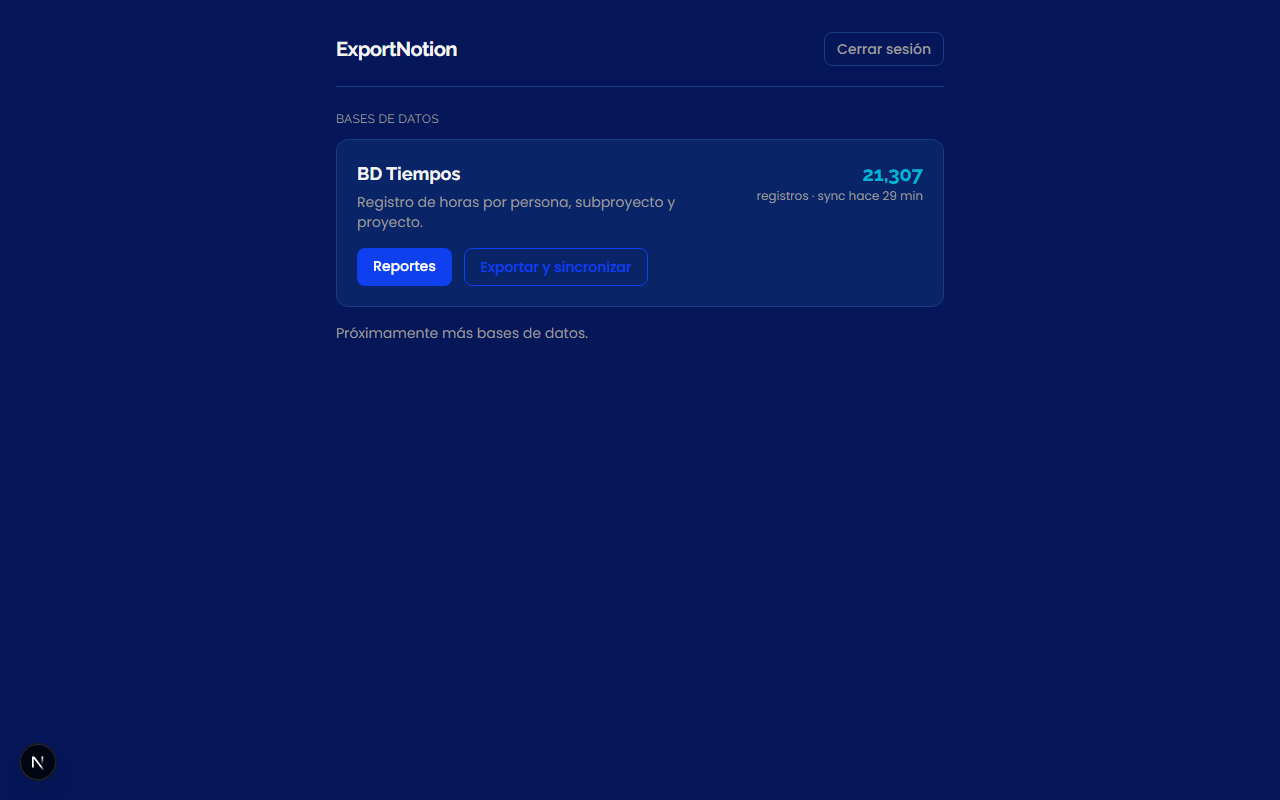
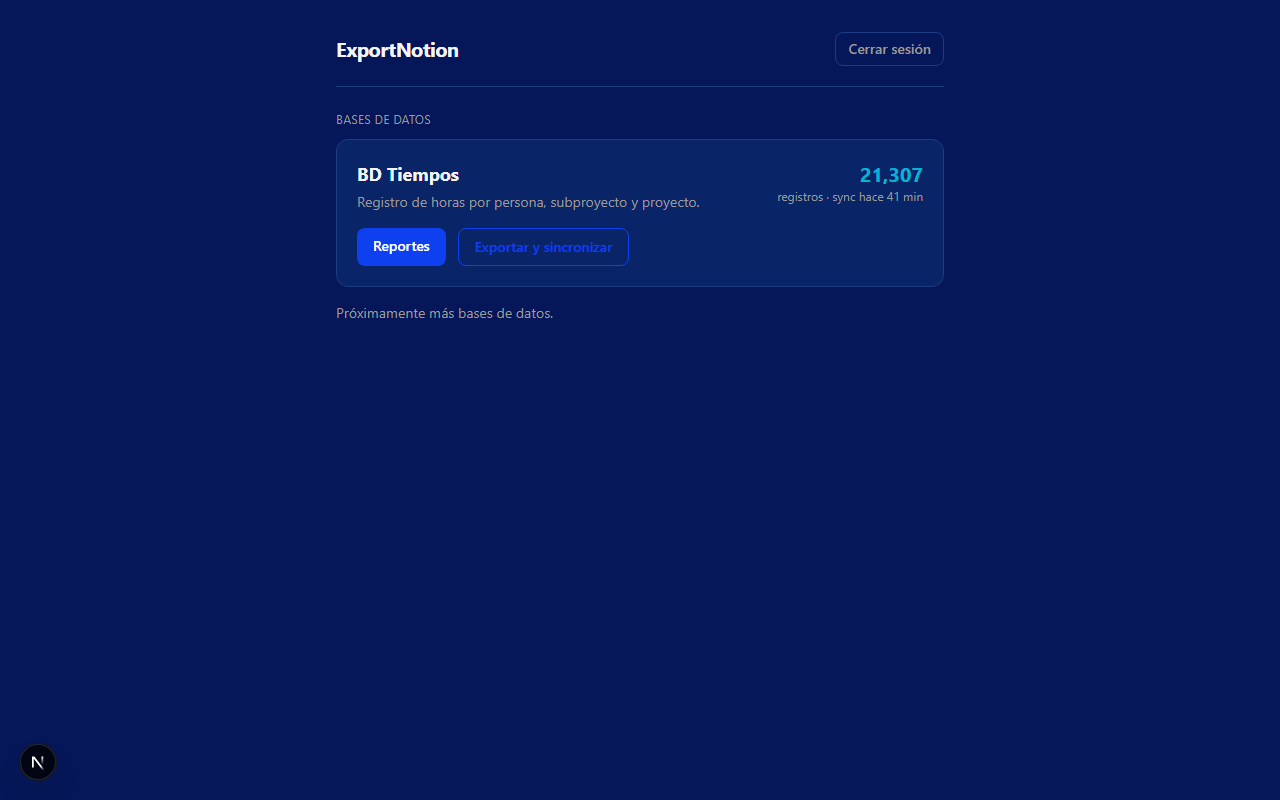
style(ui): tipografía única Inter en lugar de Raleway/Poppins
Decisión 2026-07-16: look más minimalista. Los tokens --font-display y
--font-sans se conservan apuntando a Inter (variable font), así ningún
componente cambia; la jerarquía queda en peso/tamaño.

diff --git a/src/app/layout.tsx b/src/app/layout.tsx
@@ -1,23 +1,14 @@
 import type { Metadata } from "next";
-import { Raleway, Poppins } from "next/font/google";
+import { Inter } from "next/font/google";
 import "./globals.css";
 
-// Tipografía principal iU Corp — títulos, encabezados, alto impacto.
-const raleway = Raleway({
+// Única familia tipográfica (decisión 2026-07-16: minimalista, reemplaza el
+// par Raleway/Poppins del brandbook). Variable font: cubre todos los pesos.
+const inter = Inter({
   subsets: ["latin"],
-  weight: ["400", "600", "700"],
-  variable: "--font-raleway",
+  variable: "--font-inter",
   display: "swap",
-  fallback: ["Lato", "Arial", "sans-serif"],
-});
-
-// Tipografía secundaria iU Corp — cuerpo, formularios, apoyo.
-const poppins = Poppins({
-  subsets: ["latin"],
-  weight: ["400", "500", "700"],
-  variable: "--font-poppins",
-  display: "swap",
-  fallback: ["Lato", "Arial", "sans-serif"],
+  fallback: ["system-ui", "Arial", "sans-serif"],
 });
 
 export const metadata: Metadata = {
@@ -31,7 +22,7 @@ export default function RootLayout({
   children: React.ReactNode;
 }>) {
   return (
-    <html lang="es" className={`${raleway.variable} ${poppins.variable}`}>
+    <html lang="es" className={inter.variable}>
       <body>{children}</body>
     </html>
   );

diff --git a/src/app/globals.css b/src/app/globals.css
@@ -32,9 +32,10 @@
   --color-success: #66b169;     /* Unique Green 500 */
   --color-warning: #b57ed1;     /* Unique Purple 400 (avisos sutiles) */
 
-  /* Tipografía: principal Raleway, secundaria Poppins */
-  --font-display: var(--font-raleway), "Lato", Arial, sans-serif;
-  --font-sans: var(--font-poppins), "Lato", Arial, sans-serif;
+  /* Tipografía: Inter única (minimalista); display y sans apuntan a la misma
+     familia — la jerarquía queda en peso/tamaño, no en cambio de fuente. */
+  --font-display: var(--font-inter), system-ui, Arial, sans-serif;
+  --font-sans: var(--font-inter), system-ui, Arial, sans-serif;
 }
 
 /* Tema oscuro corporativo fijo: base Unique Black, texto claro, aire visual.
